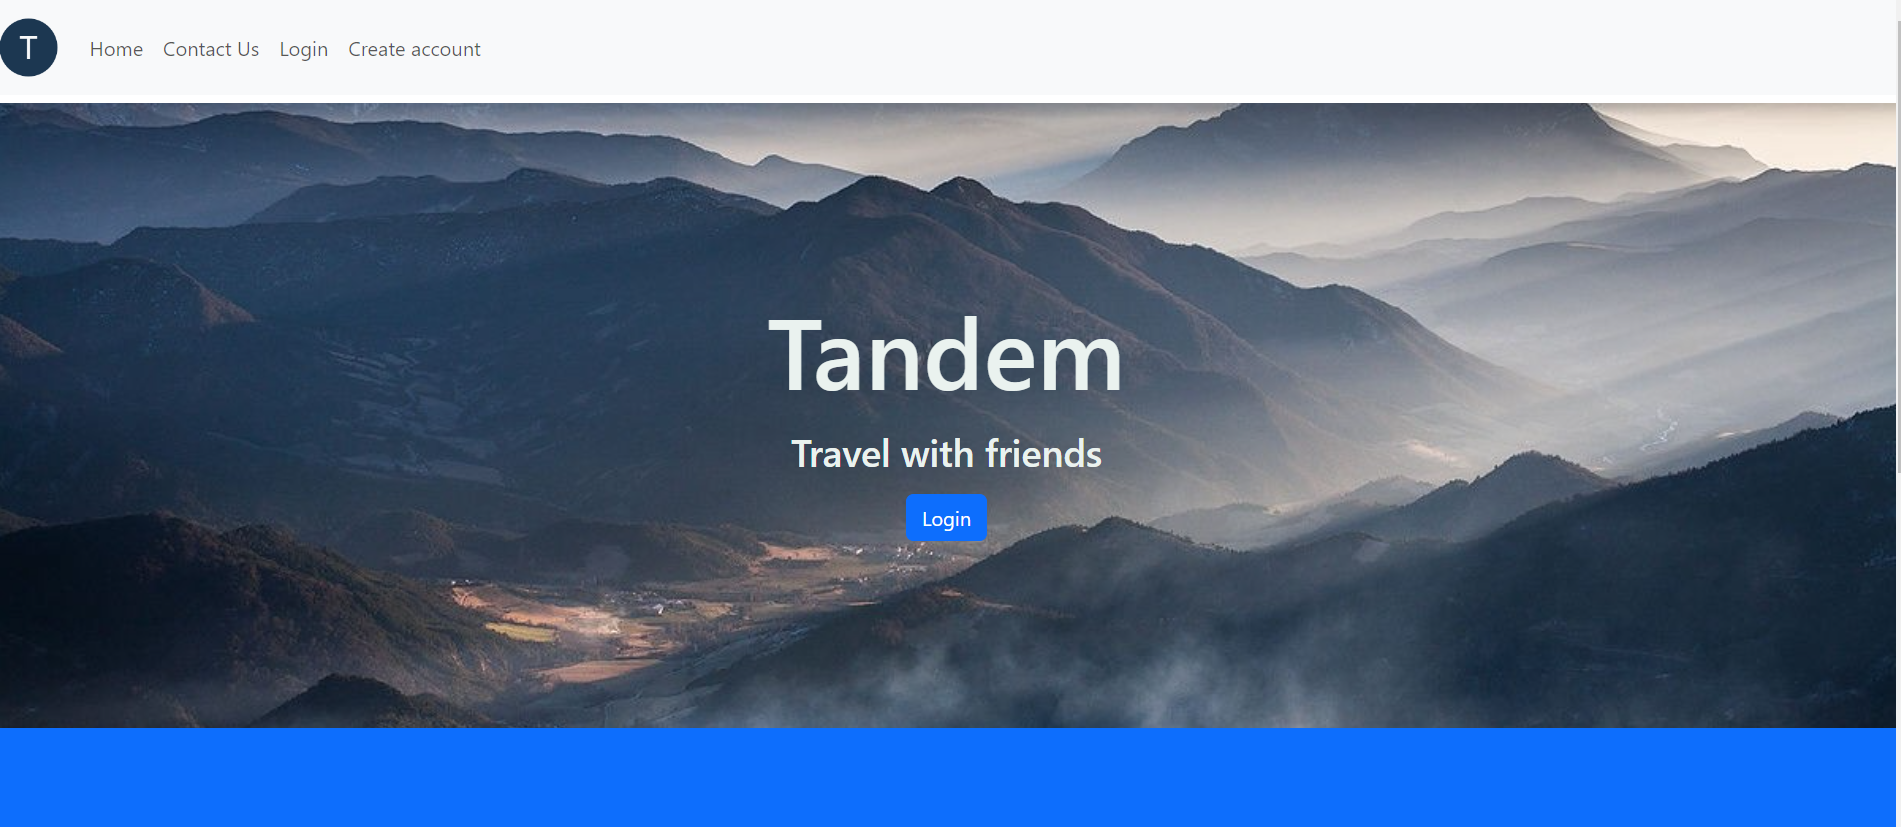
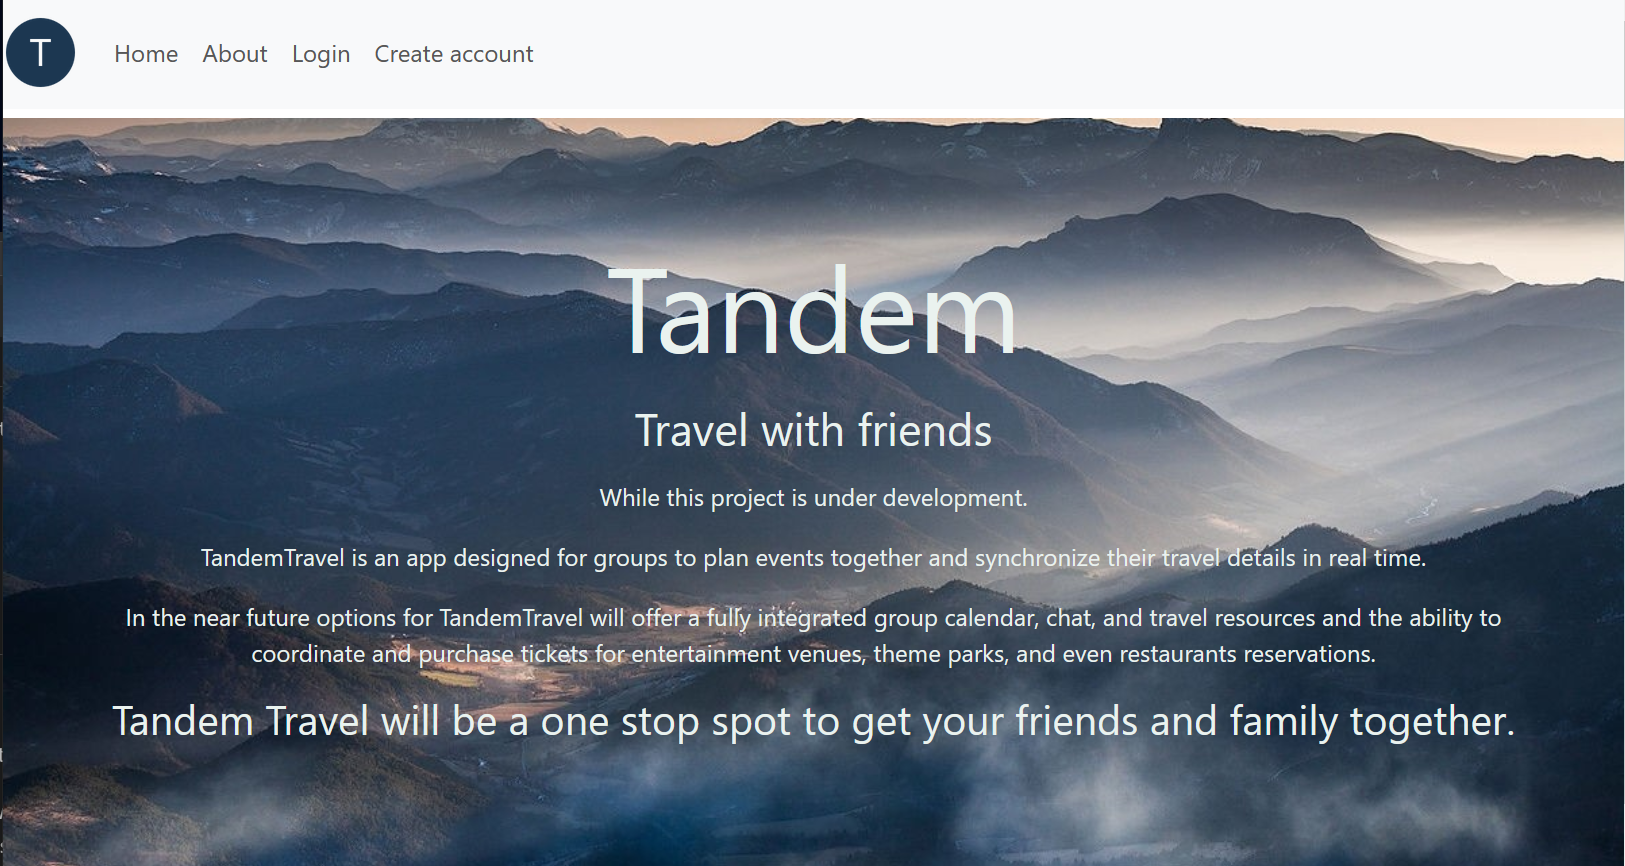
Integerate calendar with events

diff --git a/client/src/pages/Huddle/index.jsx b/client/src/pages/Huddle/index.jsx
@@ -1,8 +1,10 @@
+import { useQuery } from '@apollo/client';
 import FullCalendar from '@fullcalendar/react'
 import dayGridPlugin from '@fullcalendar/daygrid'
 import timeGridPlugin from "@fullcalendar/timegrid"
 import interactionPlugin from '@fullcalendar/interaction'
 import {useState} from 'react'
+import { QUERY_EVENT_LIST } from '../../utils/queries';
 import "./index.css"
 
 
@@ -11,27 +13,26 @@ import Auth from '../../utils/auth';
 
 
 function Huddle() {
+  const {  loading, error, data, refetch } = useQuery(QUERY_EVENT_LIST, {refetchOnWindowFocus: true, });
     const navigate = useNavigate();
-    
-    const [events, setEvents] = useState([
-      { title: 'Meeting', start: new Date() },
-      {title: "Meeting2", start: "2024-07-11T10:00:00", end: "2024-07-14T24:00:00"}
-    ])
-  
-    const handleDateClick =(arg) =>{
-      const titleprompt = prompt("Enter event information")
-  
-      const enddate = prompt("Enter end date DD/MM/YYYY")
-      const eventEnd = enddate.split('/').reverse().join('-')
-  
 
-      if (titleprompt){
-        setEvents([...events, {title: titleprompt, start: arg.dateStr, end: eventEnd}])
-      }
-    }
+    const [events, setEvents] = useState([])
+
+
+    const eventsCurrent = data?.events || [];
+
+    if (loading) return <p>Loading...</p>;
+
+    if (error) return <p>Error: {error.message}</p>;
+
+    
+      eventsCurrent.map((item) => {
+        events.push( {"_id": item._id, "title": item.name + " - " + item.venue, "start": new Date(item.start), "end": new Date(item.end) });
+      });
+    
+    
     const handleEventClick = (info) => {
-      if (window.confirm(`Delete ${info.event.title}?`))
-        info.event.remove()
+      navigate(`/event/${info.event.extendedProps._id}`);
     }
 
     // Redirect to login if not already
@@ -57,7 +58,7 @@ function Huddle() {
   events={events}
   selectable={true}
   // eventContent={renderEventContent}
-  dateClick={handleDateClick}
+  
   eventClick={handleEventClick}
 />
 </div>

diff --git a/client/src/pages/About/AboutForm.jsx b/client/src/pages/About/AboutForm.jsx
@@ -1,0 +1,43 @@
+// see SignupForm.js for comments
+
+
+const AboutForm = () => {
+  
+  const mountain = "https://c.wallhere.com/photos/79/d7/1200x800_px_Hiking_landscape_mist_Morning_mountains_nature_photography-1263873.jpg!d";
+
+  return (
+    <header style={{paddingLeft: 0}}>
+        <div
+        id='hero'
+        className="p-5 text-center"
+        style={{backgroundImage: `url(${mountain})`, height: 500}}
+        >
+         <div>
+            <div className="d-flex justify-content-center align-items-center h-100">
+                <div className='hero-text mask'>
+                    <h1 className="mb-3">Tandem</h1>
+                    <h4 className="mb-3">Travel with friends</h4>
+                    
+                    <p>
+                    While this project is under development.
+                    </p>
+                    <p>
+                    TandemTravel is an app designed for groups to plan events together and synchronize their travel details in real time.
+                    </p>
+                    <p>
+                    In the near future options for TandemTravel will offer a fully integrated group calendar, chat, and travel resources and the ability to coordinate and purchase tickets for entertainment venues, theme parks, and even restaurants reservations.
+                    </p>
+                    <h3>
+                    Tandem Travel will be a one stop spot to get your friends and family together.
+                    </h3>
+                </div>
+            </div>
+        </div>
+
+        
+        </div>
+    </header>
+  )
+}
+
+export default AboutForm;

diff --git a/server/schemas/resolvers.js b/server/schemas/resolvers.js
@@ -70,13 +70,10 @@ const resolvers = {
       return { token, user };
     },
      addEvent: async (parent,  args) => {
-      console.log("addEvent ",args);
       const event = await Event.create(args);
       return event;
     },
     editEvent: async (parent, args) => {
-      console.log("editEvent ",args);
-      
       const event = await Event.findOneAndUpdate(
         { _id: args._id },
         { $set: {
@@ -97,10 +94,9 @@ const resolvers = {
    },
     deleteEvent: async (parent, { id }) => {
       try {
-        console.log("deleteEvent " + id._id);
+
         const result = await Event.findByIdAndDelete({ _id: id });
-        console.log("result");
-        console.log(result);
+
         return "Event deleted successfully";
       } catch (error) {
         throw new Error("Failed to delete event");

diff --git a/client/src/main.jsx b/client/src/main.jsx
@@ -6,7 +6,7 @@ import App from './App.jsx';
 import Home from './pages/Home';
 import Login from './pages/Login';
 import PageNotFound from './pages/404';
-import Contact from './pages/ContactUs';
+import About from './pages/About';
 import Huddle from './pages/Huddle';
 import Chat from './pages/Chat';
 import CreateAccount from './pages/CreateAccount';
@@ -56,8 +56,8 @@ const router = createBrowserRouter([
         element: <EventAdd />
       },
       {
-        path: '/Contact-us',
-        element: <Contact />
+        path: '/about',
+        element: <About />
       },
       {
         path: '/huddle',

diff --git a/client/src/pages/About/index.jsx b/client/src/pages/About/index.jsx
@@ -1,16 +1,16 @@
-import './index.css';
-import HeroImg from '../Page Components/HomepageComponents/HeroImg';
+
+import AboutForm from './AboutForm';
 import InfoCards from '../Page Components/HomepageComponents/info-section';
 import Footer from '../Page Components/HomepageComponents/footerSection';
 
-export default function Home() {
+export default function About() {
 
   
   return (
     
   
     <div className="hero">
-        <HeroImg />
+        <AboutForm />
         <InfoCards />
         <Footer />
     </div>

diff --git a/client/src/components/Navbar/index.jsx b/client/src/components/Navbar/index.jsx
@@ -50,8 +50,8 @@ function MainNav() {
                     {Auth.loggedIn() ? 
                         null
                          : 
-                         <Nav.Link as={Link} to='Contact-us'>
-                         Contact Us
+                         <Nav.Link as={Link} to='About'>
+                         About
                      </Nav.Link>
                     }
                     

diff --git a/client/src/pages/Page Components/EventCard/index.jsx b/client/src/pages/Page Components/EventCard/index.jsx
@@ -8,7 +8,7 @@ const EventCard = ({event}) => {
     <div>
       <Link to={`/event/${event._id}`}>
         <div>
-          <h3>{event.name}- {event.venue} {event.start} - {event.end}</h3>
+          <h3>{event.name} at {event.venue} </h3> <h4> {event.start} - {event.end}</h4>
           <p>{event.description}</p>
           <button >View</button>       
         </div>

diff --git a/server/models/Message.js b/server/models/Message.js
@@ -1,0 +1,14 @@
+const { Schema, model } = require('mongoose');
+
+const messageSchema = new mongoose.Schema({
+    user: String,
+    content: String,
+    timestamp: {
+      type: Date,
+      default: Date.now,
+    },
+  });
+
+  const Event = model('Message', messageSchema);
+
+module.exports = Message;

diff --git a/client/src/App.jsx b/client/src/App.jsx
@@ -35,7 +35,7 @@ function App() {
 
   return (
     <ApolloProvider client={client}>
-        <div className="bg-custom">
+        <div>
         <div className="flex-column justify-center align-center min-100-vh bg-primary">
           <Navbar />
           <Outlet />

diff --git a/README.md b/README.md
@@ -17,7 +17,13 @@ Huddle is a calendar feature where users and their invited guests can see upcomi
 
 
 ## Future Development
-Future options for TandemTravel are links to travel resources and the ability to coordinate and purchase tickets.  Ideally this could be accomplished through the app itself, and the options would not be limited to transportation.  Tickets for entertainment venues, theme parks, restaurants, etc., could be reached through TandemTravel.
+ While this project is under development.
+
+TandemTravel is an app designed for groups to plan events together and synchronize their travel details in real time.
+
+In the near future options for TandemTravel will offer a fully integrated group calendar, chat, and travel resources and the ability to coordinate and purchase tickets for entertainment venues, theme parks, and even restaurants reservations.
+
+### Tandem Travel will be a one stop spot to get your friends and family together.
 
 ## Resources
 Fullcalendar Docs: https://www.npmjs.com/package/@fullcalendar/interaction
